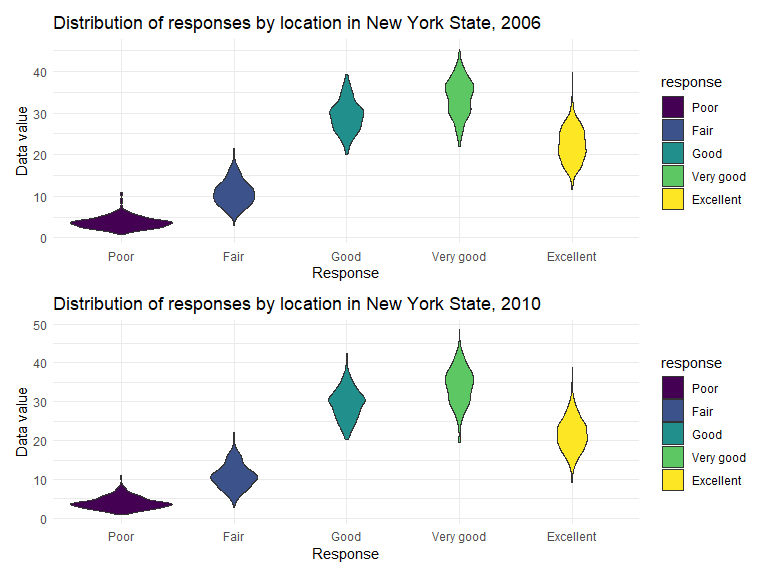
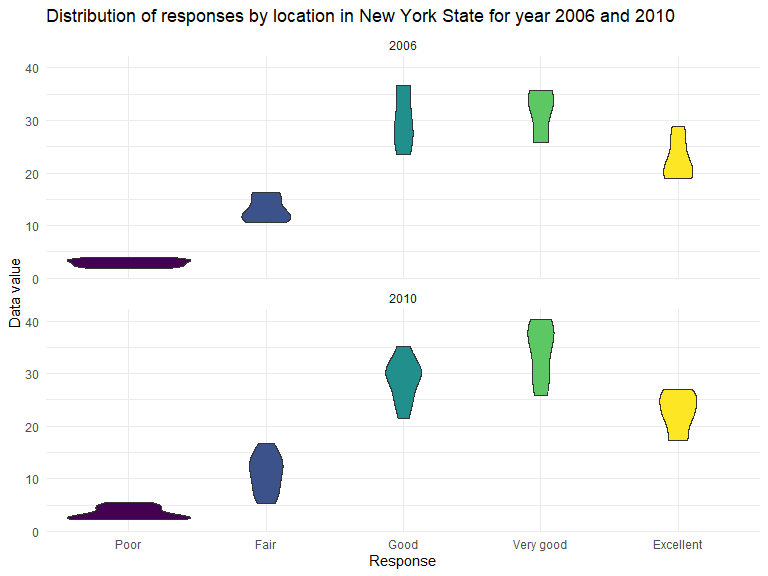
Completed comments and updated pictures, final version

diff --git a/p8105_hw3_cp3384.md b/p8105_hw3_cp3384.md
@@ -126,6 +126,8 @@ instacart_10000%>%
 ```
 
 <img src="p8105_hw3_cp3384_files/figure-gfm/unnamed-chunk-5-1.png" width="90%" />
+Here are the images arranged from small to large according to the number
+of items according to Aisle ID.
 
 **Make a table showing the three most popular items in each of the
 aisles “baking ingredients”, “dog food care”, and “packaged vegetables
@@ -160,6 +162,10 @@ most3_item
     ## 8 packaged vegetables fruits Organic Raspberries                            5546
     ## 9 packaged vegetables fruits Organic Blueberries                            4966
 
+First, select three specified aisles, calculate the quantity of each of
+them, group each aisle again, and use top_n to calculate the three
+largest products among them.
+
 **Make a table showing the mean hour of the day at which Pink Lady
 Apples and Coffee Ice Cream are ordered on each day of the week; format
 this table for human readers (i.e. produce a 2 x 7 table).**
@@ -188,6 +194,10 @@ instacart %>%
     ##   <chr>             <dbl>  <dbl>   <dbl>     <dbl>    <dbl>  <dbl>    <dbl>
     ## 1 Coffee Ice Cream   13.8   14.3    15.4      15.3     15.2   12.3     13.8
     ## 2 Pink Lady Apples   13.4   11.4    11.7      14.2     11.6   12.8     11.9
+
+It can be seen that except for Friday, Pink Lady Apples are generally
+purchased slightly earlier in the day than Coffee Ice Cream. The data in
+the table is time
 
 # Question2:
 
@@ -352,33 +362,22 @@ locations in NY State.**
 
 ``` r
 # draw violin plot for the years 2006, and 2010, distribution of data_value for responses
-
-
-violin_2006<- brfss_clean%>%
-#choose those data that year is 2006 and state is NY
-  filter(year==2006 | state == "NY") %>%
-#set response to x ,data_value to y
-  ggplot(aes(x = response, y = data_value))+
-  geom_violin(aes(fill = response))+
-  viridis::scale_fill_viridis(discrete = TRUE)+
-  labs(title = "Distribution of responses by location in New York State, 2006",
-       x = "Response",
-       y = "Data value")+
-  theme_minimal()
-
-violin_2010<- brfss_clean%>%
+violin_plot <-brfss_clean%>%
 #choose those data that year is 2010 and state is NY
-  filter(year==2010 | state == "NY") %>%
+  filter((year==2010| year == 2006) & state == "NY") %>%
 #set response to x ,data_value to y
   ggplot(aes(x = response, y = data_value))+
   geom_violin(aes(fill = response))+
+#create panel according to years
+  facet_wrap(~year, nrow = 2)+
   viridis::scale_fill_viridis(discrete = TRUE)+
-  labs(title = "Distribution of responses by location in New York State, 2010",
+  labs(title = "Distribution of responses by location in New York State for year 2006 and 2010",
        x = "Response",
        y = "Data value")+
-  theme_minimal()
+  theme_minimal()+
+  theme(legend.position = 'none')
 
-violin_2006 / violin_2010 
+violin_plot
 ```
 
 <img src="p8105_hw3_cp3384_files/figure-gfm/unnamed-chunk-12-1.png" width="90%" />
@@ -389,8 +388,10 @@ are similar. Judging from the average value and shape of each violin
 plot, the average value corresponding to `poor` is the lowest, and the
 graph of poor is very wide, which proves that a large amount of data is
 concentrated in the interval around 5. The highest average value is for
-`very good` rather than `excellent`, which is surprising, and the other
-average values are sorted according to the meaning of their categories.
+`very good` rather than `excellent`(It is determined by the numerical
+value and shape of the distribution.), which is surprising.Except
+excellent ,the other average values are sorted according to the meaning
+of their categories(like Good \> Fair \>Poor).
 
 # Question3:
 
@@ -441,7 +442,26 @@ combine_table<-covar_clean%>%
 #convert into a long table
   pivot_longer(min1:min1440,names_to = "time", values_to = "mims")%>%
   na.omit()
+
+
+#show some of combined table
+
+head(combine_table,5)
 ```
+
+    ## # A tibble: 5 × 7
+    ##    seqn sex     age   bmi education              time   mims
+    ##   <int> <fct> <int> <dbl> <fct>                  <chr> <dbl>
+    ## 1 62161 male     22  23.3 High school equivalent min1  1.11 
+    ## 2 62161 male     22  23.3 High school equivalent min2  3.12 
+    ## 3 62161 male     22  23.3 High school equivalent min3  1.47 
+    ## 4 62161 male     22  23.3 High school equivalent min4  0.938
+    ## 5 62161 male     22  23.3 High school equivalent min5  1.60
+
+I first process the two data sets separately and then merge them.Because
+we want to exclude data from participants with missing demographic data,
+I use inner_join to ensure that the generated data is complete for each
+item, and `na.omit` again to ensure that no missing data exists
 
 **Produce a reader-friendly table for the number of men and women in
 each education category, and create a visualization of the age
@@ -458,12 +478,7 @@ age_distribution_table <- combine_table%>%
 #summarize the number ,mean age of people in each education level
 #mean age used for analysis later
   summarise(number_of_people=n(),mean_age = mean(age),median_age = median(age))
-```
 
-    ## `summarise()` has grouped output by 'education'. You can override using the
-    ## `.groups` argument.
-
-``` r
 #show table
 age_distribution_table
 ```
@@ -534,12 +549,8 @@ daily_activity_plot <- combine_table%>%
        x = "Age",
        y = "Total Physical activity per day")+
   theme_minimal()
-```
 
-    ## `summarise()` has grouped output by 'sex', 'age', 'education'. You can override
-    ## using the `.groups` argument.
 
-``` r
 daily_activity_plot
 ```
 
